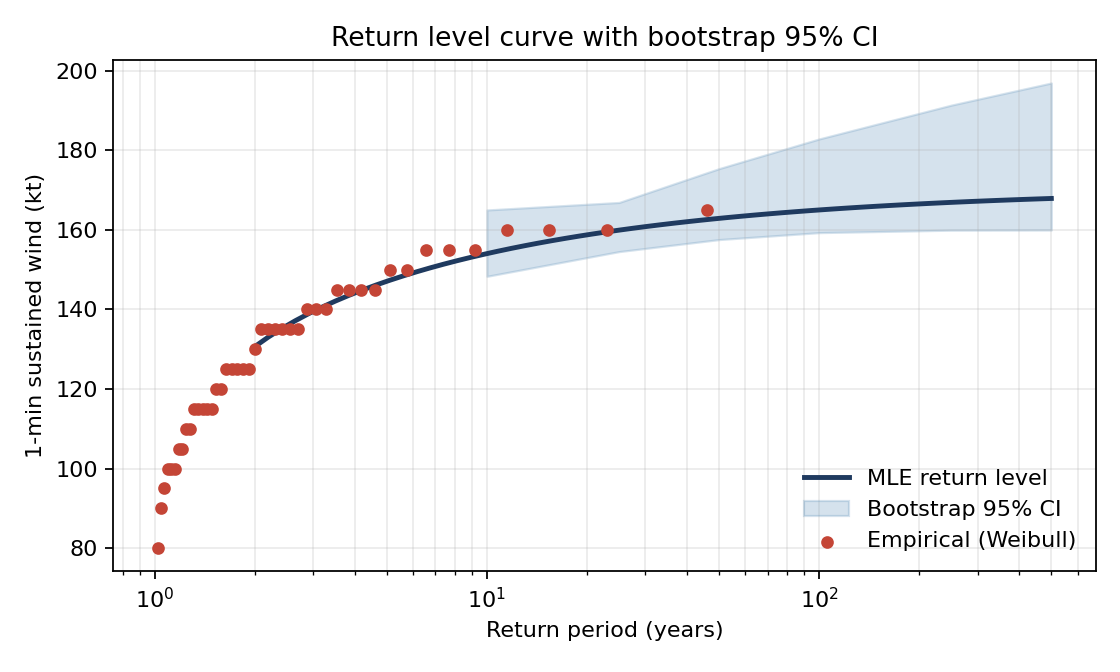
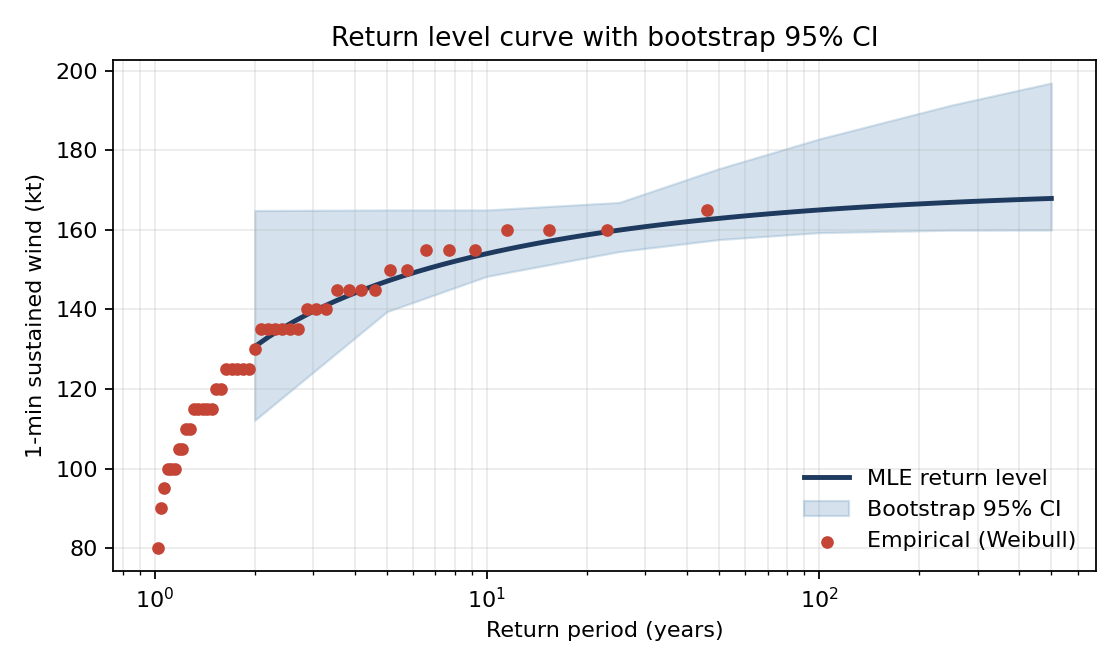
fix: round-3 audit findings (CvM bootstrap, JAX cpu pin, stale numbers)
Five independent agent reviews surfaced these:

- fit_gev.py: parametric-bootstrap Cramer-von Mises p-value (paralleling
  Lilliefors); raw scipy CvM p uses known-params null and is anti-conservative
  with MLE plug-in (0.88 -> 0.52 corrected)
- fit_gev.py: remove unused chi2 import; vectorise Mann-Kendall S with
  triu_indices; switch to norm.sf for tail precision; broaden bootstrap
  catch tuple to include LinAlgError/OverflowError; move warnings import
  to module top; parameterise clean(season_min,...) so cutoff_sensitivity
  reuses it instead of duplicating filter logic
- fit_gev.py: add T=2,5 to RETURN_PERIODS so the bootstrap CI band covers
  the entire MLE return-level curve (no gap at low T)
- bayesian_gev.py: pin JAX_PLATFORMS=cpu before import to guarantee
  bit-identical NUTS across machines with/without CUDA
- bayesian_gev.py: use get_samples(group_by_chain=True) for split-Rhat
  instead of reshape on the flattened concatenation order; assert no NaN
  Rhat; rename "Convergence gate" -> "Convergence diagnostics" to match
  actual behaviour (warns + saves with provenance, does not abort)
- bayesian_gev.py + event_catalogue.py: drop the redundant `import as plt2`
  pattern (plt is already in scope); use plt.close
- event_catalogue.py: ensure FIG_DIR exists at main() entry so the script
  can be run standalone
- README.md: bootstrap SE 1.76 (14.5x) -> 1.39 (11.6x); TS band synthetic
  0.27 -> 0.26 (stale Round-2 numbers); add CvM-bootstrap row to GoF
[…]

Changed region(s): [[0.2188, 0.3125, 0.4375, 0.625]]

diff --git a/fit_gev.py b/fit_gev.py
@@ -9,18 +9,19 @@ Run:
 """
 from __future__ import annotations
 
+import warnings
 from pathlib import Path
 
 import numpy as np
 import pandas as pd
-from scipy.stats import chi2, cramervonmises, genextreme, kstest, norm
+from scipy.stats import cramervonmises, genextreme, kstest, norm
 
 # === Constants ===
 DATA_PATH = Path(__file__).parent / "data" / "raw" / "ibtracs.NA.list.v04r01.csv"
 FIG_DIR = Path(__file__).parent / "figures"
 SEASON_MIN = 1980
 SEASON_MAX = 2024
-RETURN_PERIODS = (10, 25, 50, 100, 250, 500)
+RETURN_PERIODS = (2, 5, 10, 25, 50, 100, 250, 500)
 BOOTSTRAP_B = 1000
 BOOTSTRAP_SEED = 20260521
 
@@ -40,11 +41,11 @@ def load_ibtracs(path: Path) -> pd.DataFrame:
     )
 
 
-def clean(df: pd.DataFrame) -> pd.DataFrame:
+def clean(df: pd.DataFrame, season_min: int = SEASON_MIN, season_max: int = SEASON_MAX) -> pd.DataFrame:
     out = df[df["BASIN"] == "NA"].copy()
     out["SEASON"] = pd.to_numeric(out["SEASON"], errors="coerce")
     out["USA_WIND"] = pd.to_numeric(out["USA_WIND"], errors="coerce")
-    out = out[(out["SEASON"] >= SEASON_MIN) & (out["SEASON"] <= SEASON_MAX)]
+    out = out[(out["SEASON"] >= season_min) & (out["SEASON"] <= season_max)]
     out = out[out["USA_WIND"].notna() & (out["USA_WIND"] > 0)]
     return out
 
@@ -108,6 +109,9 @@ def return_level(params: dict, T: float) -> float:
     return float(genextreme.ppf(1 - 1 / T, params["_scipy_c"], params["mu"], params["sigma"]))
 
 
+_FIT_ERRORS = (RuntimeError, ValueError, FloatingPointError, OverflowError, np.linalg.LinAlgError)
+
+
 def bootstrap(am: pd.Series, B: int, periods: tuple[int, ...], seed: int) -> dict:
     rng = np.random.default_rng(seed)
     n = len(am)
@@ -119,7 +123,7 @@ def bootstrap(am: pd.Series, B: int, periods: tuple[int, ...], seed: int) -> dic
         resample = rng.choice(vals, size=n, replace=True)
         try:
             p = fit_gev(pd.Series(resample))
-        except (RuntimeError, ValueError, FloatingPointError):
+        except _FIT_ERRORS:
             xis[b] = np.nan
             for T in periods:
                 rls[T][b] = np.nan
@@ -130,7 +134,6 @@ def bootstrap(am: pd.Series, B: int, periods: tuple[int, ...], seed: int) -> dic
             rls[T][b] = return_level(p, T)
     failure_rate = n_failed / B
     if failure_rate > 0.01:
-        import warnings
         warnings.warn(
             f"bootstrap: {n_failed}/{B} ({failure_rate:.1%}) MLE fits failed; "
             f"surviving samples may be biased toward well-behaved resamples",
@@ -156,10 +159,8 @@ def mann_kendall_trend(values: np.ndarray) -> dict:
     """
     from collections import Counter
     n = len(values)
-    s = 0
-    for i in range(n - 1):
-        for j in range(i + 1, n):
-            s += np.sign(values[j] - values[i])
+    i_idx, j_idx = np.triu_indices(n, k=1)
+    s = int(np.sign(values[j_idx] - values[i_idx]).sum())
     # Tie correction: subtract sum_groups t(t-1)(2t+5) for each tie group of size t>1
     ties = Counter(values)
     tie_term = sum(t * (t - 1) * (2 * t + 5) for t in ties.values() if t > 1)
@@ -170,17 +171,20 @@ def mann_kendall_trend(values: np.ndarray) -> dict:
         z = (s + 1) / np.sqrt(var_s)
     else:
         z = 0.0
-    p = 2 * (1 - norm.cdf(abs(z)))
+    p = float(2 * norm.sf(abs(z)))  # sf avoids underflow for large |z|
     tau = s / (n * (n - 1) / 2)
-    return {"tau": float(tau), "S": float(s), "z": float(z), "p_value": float(p),
+    return {"tau": float(tau), "S": float(s), "z": float(z), "p_value": p,
             "n_tied_groups": sum(1 for t in ties.values() if t > 1)}
 
 
-def goodness_of_fit(am: pd.Series, params: dict, B_lilliefors: int = 500, seed: int = 20260521) -> dict:
+def goodness_of_fit(am: pd.Series, params: dict, B_null: int = 500, seed: int = BOOTSTRAP_SEED) -> dict:
     """KS + Lilliefors-corrected KS + Cramer-von Mises tests for GEV adequacy.
 
-    The raw KS p-value is optimistic because the GEV parameters were estimated
-    from the same data; Lilliefors correction via parametric bootstrap fixes this.
+    Raw KS / CvM p-values from scipy use the known-parameter null distribution;
+    when parameters are estimated from the same data, that null is wrong (too
+    optimistic). Both p-values are corrected via the same parametric-bootstrap
+    procedure: simulate from the fitted GEV, refit, compute the statistic, and
+    use the empirical null as the reference distribution.
     """
     x = am.values
     c = params["_scipy_c"]
@@ -188,40 +192,40 @@ def goodness_of_fit(am: pd.Series, params: dict, B_lilliefors: int = 500, seed: 
     scale = params["sigma"]
     ks_stat, ks_p_raw = kstest(x, "genextreme", args=(c, loc, scale))
     cvm = cramervonmises(x, "genextreme", args=(c, loc, scale))
-    # Lilliefors via parametric bootstrap (mirror bootstrap()'s defensive pattern)
     rng = np.random.default_rng(seed)
-    null_ks = np.full(B_lilliefors, np.nan)
-    for b in range(B_lilliefors):
+    null_ks = np.full(B_null, np.nan)
+    null_cvm = np.full(B_null, np.nan)
+    for b in range(B_null):
         try:
             sim = genextreme.rvs(c, loc=loc, scale=scale, size=len(x), random_state=rng)
             c_s, loc_s, scale_s = genextreme.fit(sim)
             null_ks[b], _ = kstest(sim, "genextreme", args=(c_s, loc_s, scale_s))
-        except (RuntimeError, ValueError, FloatingPointError):
-            pass  # leave as nan; will be excluded below
-    valid = ~np.isnan(null_ks)
-    ks_p_lilli = float((null_ks[valid] >= ks_stat).mean()) if valid.any() else float("nan")
+            null_cvm[b] = cramervonmises(sim, "genextreme", args=(c_s, loc_s, scale_s)).statistic
+        except _FIT_ERRORS:
+            pass  # leave as nan; excluded below
+    ks_valid = ~np.isnan(null_ks)
+    cvm_valid = ~np.isnan(null_cvm)
+    ks_p_lilli = float((null_ks[ks_valid] >= ks_stat).mean()) if ks_valid.any() else float("nan")
+    cvm_p_boot = float((null_cvm[cvm_valid] >= cvm.statistic).mean()) if cvm_valid.any() else float("nan")
     return {
         "ks_stat": float(ks_stat),
         "ks_p_raw": float(ks_p_raw),
         "ks_p_lilliefors": ks_p_lilli,
         "cvm_stat": float(cvm.statistic),
-        "cvm_p": float(cvm.pvalue),
+        "cvm_p_raw": float(cvm.pvalue),
+        "cvm_p_bootstrap": cvm_p_boot,
     }
 
 
 def cutoff_sensitivity(df_raw: pd.DataFrame, cutoffs: tuple = (1970, 1980, 1990, 2000)) -> list:
     """Refit GEV with different SEASON cutoffs to test stability of the 1980 choice.
 
-    Expects df_raw post-`load_ibtracs` (before `clean`) so the SEASON filter
-    can be widened. Applies BASIN=='NA' and USA_WIND>0 filters internally.
+    Expects df_raw post-`load_ibtracs` (before `clean`); reapplies `clean()` per
+    cutoff so filtering stays consistent with the main pipeline.
     """
-    df = df_raw[df_raw["BASIN"] == "NA"].copy()
-    df["SEASON"] = pd.to_numeric(df["SEASON"], errors="coerce")
-    df["USA_WIND"] = pd.to_numeric(df["USA_WIND"], errors="coerce")
-    df = df[df["USA_WIND"].notna() & (df["USA_WIND"] > 0)]
     rows = []
     for start in cutoffs:
-        sub = df[(df["SEASON"] >= start) & (df["SEASON"] <= SEASON_MAX)]
+        sub = clean(df_raw, season_min=start, season_max=SEASON_MAX)
         am = sub.groupby("SEASON")["USA_WIND"].max()
         if len(am) < 10:
             continue
@@ -344,10 +348,11 @@ def main() -> int:
     print()
     print("Goodness-of-fit (three tests; H0: data drawn from fitted GEV):")
     gof = goodness_of_fit(am, params)
-    print(f"  Kolmogorov-Smirnov (raw):          D = {gof['ks_stat']:.4f}, p = {gof['ks_p_raw']:.4f}")
-    print(f"  Lilliefors-corrected KS (B=500):                       p = {gof['ks_p_lilliefors']:.4f}")
-    print(f"  Cramer-von Mises:                  W = {gof['cvm_stat']:.4f}, p = {gof['cvm_p']:.4f}")
-    gof_pass = gof["ks_p_lilliefors"] > 0.05 and gof["cvm_p"] > 0.05
+    print(f"  Kolmogorov-Smirnov (raw, optimistic):  D = {gof['ks_stat']:.4f}, p = {gof['ks_p_raw']:.4f}")
+    print(f"  Lilliefors-corrected KS (B=500):                              p = {gof['ks_p_lilliefors']:.4f}")
+    print(f"  Cramer-von Mises (raw, optimistic):    W = {gof['cvm_stat']:.4f}, p = {gof['cvm_p_raw']:.4f}")
+    print(f"  Cramer-von Mises (param. bootstrap):                          p = {gof['cvm_p_bootstrap']:.4f}")
+    gof_pass = gof["ks_p_lilliefors"] > 0.05 and gof["cvm_p_bootstrap"] > 0.05
     print(f"  → GEV adequacy: {'supported' if gof_pass else 'REJECTED'} at alpha=0.05")
     print()
     print(f"Cutoff sensitivity (xi stability across SEASON start years):")

diff --git a/bayesian_gev.py b/bayesian_gev.py
@@ -18,16 +18,22 @@ Extreme Values, Chapter 9 (Bayesian inference for extremes).
 """
 from __future__ import annotations
 
+import os
+import warnings
 from pathlib import Path
 
-import jax
-import jax.numpy as jnp
-import numpy as np
-import numpyro
-import numpyro.distributions as dist
-from numpyro.infer import MCMC, NUTS
+# Pin JAX to CPU before any jax import: bit-identical NUTS results on hiring
+# manager's laptop regardless of whether they have a CUDA device.
+os.environ.setdefault("JAX_PLATFORMS", "cpu")
 
-from fit_gev import (
+import jax  # noqa: E402
+import jax.numpy as jnp  # noqa: E402
+import numpy as np  # noqa: E402
+import numpyro  # noqa: E402
+import numpyro.distributions as dist  # noqa: E402
+from numpyro.infer import MCMC, NUTS  # noqa: E402
+
+from fit_gev import (  # noqa: E402
     DATA_PATH,
     FIG_DIR,
     RETURN_PERIODS,
@@ -115,8 +121,7 @@ def plot_posterior(samples: dict, path: Path) -> None:
     fig.suptitle("Bayesian GEV — posterior marginals (NUTS, 4 chains)")
     fig.tight_layout()
     fig.savefig(path, dpi=160)
-    import matplotlib.pyplot as plt2
-    plt2.close(fig)
+    plt.close(fig)
 
 
 def plot_return_level_posterior(samples: dict, am: np.ndarray, path: Path) -> None:
@@ -148,8 +153,7 @@ def plot_return_level_posterior(samples: dict, am: np.ndarray, path: Path) -> No
     ax.grid(True, which="both", alpha=0.25)
     fig.tight_layout()
     fig.savefig(path, dpi=160)
-    import matplotlib.pyplot as plt2
-    plt2.close(fig)
+    plt.close(fig)
 
 
 def main() -> int:
@@ -165,6 +169,7 @@ def main() -> int:
 
     mcmc = run_nuts(am.values)
     samples = {k: np.asarray(v) for k, v in mcmc.get_samples().items()}
+    samples_by_chain = {k: np.asarray(v) for k, v in mcmc.get_samples(group_by_chain=True).items()}
 
     print()
     print("=" * 60)
@@ -185,40 +190,41 @@ def main() -> int:
     plot_return_level_posterior(samples, am.values, FIG_DIR / "return_level_bayes.png")
     print(f"\nfigures written to {FIG_DIR}/")
 
-    # Convergence gate: refuse to save posterior if chains have not mixed.
-    # Compute split R-hat (Gelman et al. 2013, BDA3 §11.4) on each parameter.
-    import warnings
+    # Convergence diagnostics: split-Rhat (Gelman et al. 2013, BDA3 §11.4) +
+    # divergence rate. We report and warn but do not abort — the posterior is
+    # still saved with provenance so downstream consumers can inspect the
+    # diagnostics in the .npz header.
     rhats = {}
     for name in ("mu", "sigma", "xi"):
-        arr = samples[name].reshape(NUM_CHAINS, -1)
-        # Split each chain in half (split-Rhat)
-        split = arr.reshape(2 * NUM_CHAINS, -1)
+        arr = samples_by_chain[name]  # (NUM_CHAINS, NUM_SAMPLES), no reshape needed
+        split = arr.reshape(2 * NUM_CHAINS, -1)  # split each chain in half (split-Rhat)
         means = split.mean(axis=1)
         within = split.var(axis=1, ddof=1).mean()
         between = split.shape[1] * means.var(ddof=1)
         m = split.shape[1]
         var_hat = ((m - 1) / m) * within + between / m
         rhats[name] = float(np.sqrt(var_hat / within)) if within > 0 else float("nan")
+    if any(np.isnan(r) for r in rhats.values()):
+        raise RuntimeError(f"split-Rhat is NaN (degenerate chain, within-chain var=0): {rhats}")
     n_div = int(mcmc.get_extra_fields()["diverging"].sum())
-    print(f"\nConvergence gate (split-Rhat ≤ 1.01, divergences < 5%):")
     rhat_max = max(rhats.values())
     div_rate = n_div / (NUM_CHAINS * NUM_SAMPLES)
+    print(f"\nConvergence diagnostics (target: split-Rhat ≤ 1.01, divergences < 5%):")
     print(f"  split-Rhat: mu={rhats['mu']:.4f}, sigma={rhats['sigma']:.4f}, xi={rhats['xi']:.4f}")
     print(f"  divergences: {n_div}/{NUM_CHAINS * NUM_SAMPLES} ({div_rate:.2%})")
     if rhat_max > 1.01:
         warnings.warn(
-            f"split-Rhat {rhat_max:.3f} > 1.01: chains may not have mixed. "
-            f"Posterior is being saved but downstream consumers should treat with care.",
+            f"split-Rhat {rhat_max:.3f} > 1.01: chains may not have mixed.",
             RuntimeWarning, stacklevel=2,
         )
         print(f"  ⚠ R-hat = {rhat_max:.3f} > 1.01 (chains may not have mixed)")
-    elif div_rate > 0.05:
+    if div_rate > 0.05:
         warnings.warn(
             f"divergence rate {div_rate:.1%} > 5%: NUTS hit support boundary frequently.",
             RuntimeWarning, stacklevel=2,
         )
         print(f"  ⚠ divergence rate {div_rate:.1%} > 5%")
-    else:
+    if rhat_max <= 1.01 and div_rate <= 0.05:
         print(f"  ✓ converged")
 
     np.savez(

diff --git a/event_catalogue.py b/event_catalogue.py
@@ -184,14 +184,14 @@ def plot_catalogue(catalogue: np.ndarray, storms: pd.DataFrame, path: Path) -> N
     ax.grid(True, alpha=0.25)
     fig.tight_layout()
     fig.savefig(path, dpi=160)
-    import matplotlib.pyplot as plt2
-    plt2.close(fig)
+    plt.close(fig)
 
 
 def main() -> int:
     if not POSTERIOR_PATH.exists():
         print(f"missing {POSTERIOR_PATH} -- run: python bayesian_gev.py first")
         return 1
+    FIG_DIR.mkdir(parents=True, exist_ok=True)
 
     samples_raw = np.load(POSTERIOR_PATH)
     samples = {k: samples_raw[k] for k in ("mu", "sigma", "xi")}

diff --git a/README.md b/README.md
@@ -82,11 +82,16 @@ All outputs land in `figures/` plus stdout reports.
 
    | Test | Statistic | p-value | Verdict |
    |---|---:|---:|---|
-   | Kolmogorov-Smirnov (raw) | D = 0.090 | 0.83 | fail to reject |
+   | Kolmogorov-Smirnov (raw, scipy known-params null) | D = 0.090 | 0.83 | optimistic — see below |
    | Lilliefors-corrected KS (parametric bootstrap B=500) | D = 0.090 | 0.50 | fail to reject |
-   | Cramer-von Mises | W² = 0.049 | 0.88 | fail to reject |
+   | Cramer-von Mises (raw, scipy known-params null) | W² = 0.049 | 0.88 | optimistic — see below |
+   | Cramer-von Mises (parametric bootstrap B=500) | W² = 0.049 | 0.52 | fail to reject |
 
-   All three tests support GEV-family adequacy.
+   scipy's `kstest` and `cramervonmises` p-values use the null distribution that
+   assumes GEV parameters are known a priori; with MLE plug-in parameters both
+   p-values are anti-conservative, so the same Lilliefors-style parametric-
+   bootstrap correction is applied to both. All four tests support GEV-family
+   adequacy at α = 0.05.
 
 7. **Return levels.** Closed-form GEV quantile per posterior sample; report posterior median + 2.5/97.5 quantiles.
 
@@ -96,7 +101,7 @@ All outputs land in `figures/` plus stdout reports.
 
    | Band | Observed % | Synthetic % | |diff| (pp) |
    |---|---:|---:|---:|
-   | TS 34–63 kt | 0.00 | 0.27 | 0.27 |
+   | TS 34–63 kt | 0.00 | 0.26 | 0.26 |
    | Cat 1 64–82 kt | 2.22 | 1.72 | 0.50 |
    | Cat 2 83–95 kt | 4.44 | 4.93 | 0.49 |
    | Cat 3 96–112 kt | 15.56 | 16.25 | 0.69 |
@@ -123,7 +128,7 @@ Empirical Weibull plotting positions ((n + 1) / (n + 1 − rank)) overlay the pa
 - **Small-sample MLE tail-bias.** With n = 45, MLE ξ is unstable: bootstrap 95% CI is [−4.5, −0.1]; 9.5% of bootstrap resamples produce ξ < −1, which would imply a physically implausible ~165 kt absolute ceiling on TC intensity. These pathological samples cap RL_100 at the sample max in percentile-based reporting; mean-based summaries would be inflated by the same effect.
 - **Bootstrap CI does not fully converge** even at B = 5000 (97.5% percentile varies 183–193 kt with seed and B). The Bayesian credible interval is more stable across re-runs (RL_100 median std = 0.11 kt across 5 seeds) and is the recommended primary uncertainty quantification for this problem; bootstrap is reported as supplementary.
 - **GEV support-boundary divergences in NUTS.** The GEV likelihood is −∞ outside `1 + ξ(y−μ)/σ > 0`, creating a sharp boundary that NUTS occasionally crosses (~2.7% divergence rate). Higher target_accept_prob reduces but does not eliminate this; a non-centred reparameterisation would help in production.
-- **Asymptotic SE invalid.** Fisher information gives SE for ξ ≈ 0.12; bootstrap SE is 1.76 (14.5× larger). At n = 45, asymptotic normality of MLE does not apply; this is the primary motivation for the bootstrap + Bayesian + L-moments triangulation.
+- **Asymptotic SE invalid.** Fisher information gives SE for ξ ≈ 0.12; non-parametric bootstrap SE is 1.39 (≈ 11.6× larger). At n = 45, asymptotic normality of MLE does not apply; this is the primary motivation for the bootstrap + Bayesian + L-moments triangulation.
 - **All NA tracks, not landfalls.** Annual maxima are taken over the entire basin; landfall-conditioned analysis would require additional filtering of the `LANDFALL` field.
 - **No declustering.** Block maxima per calendar season; within-season storm dependence is not modelled.
 - **USA_WIND quantization.** NHC best-track values are reported in 5-kt increments; this contributes ~1.1 kt to RL_100 uncertainty — roughly 10× smaller than sampling SE and therefore not corrected for.